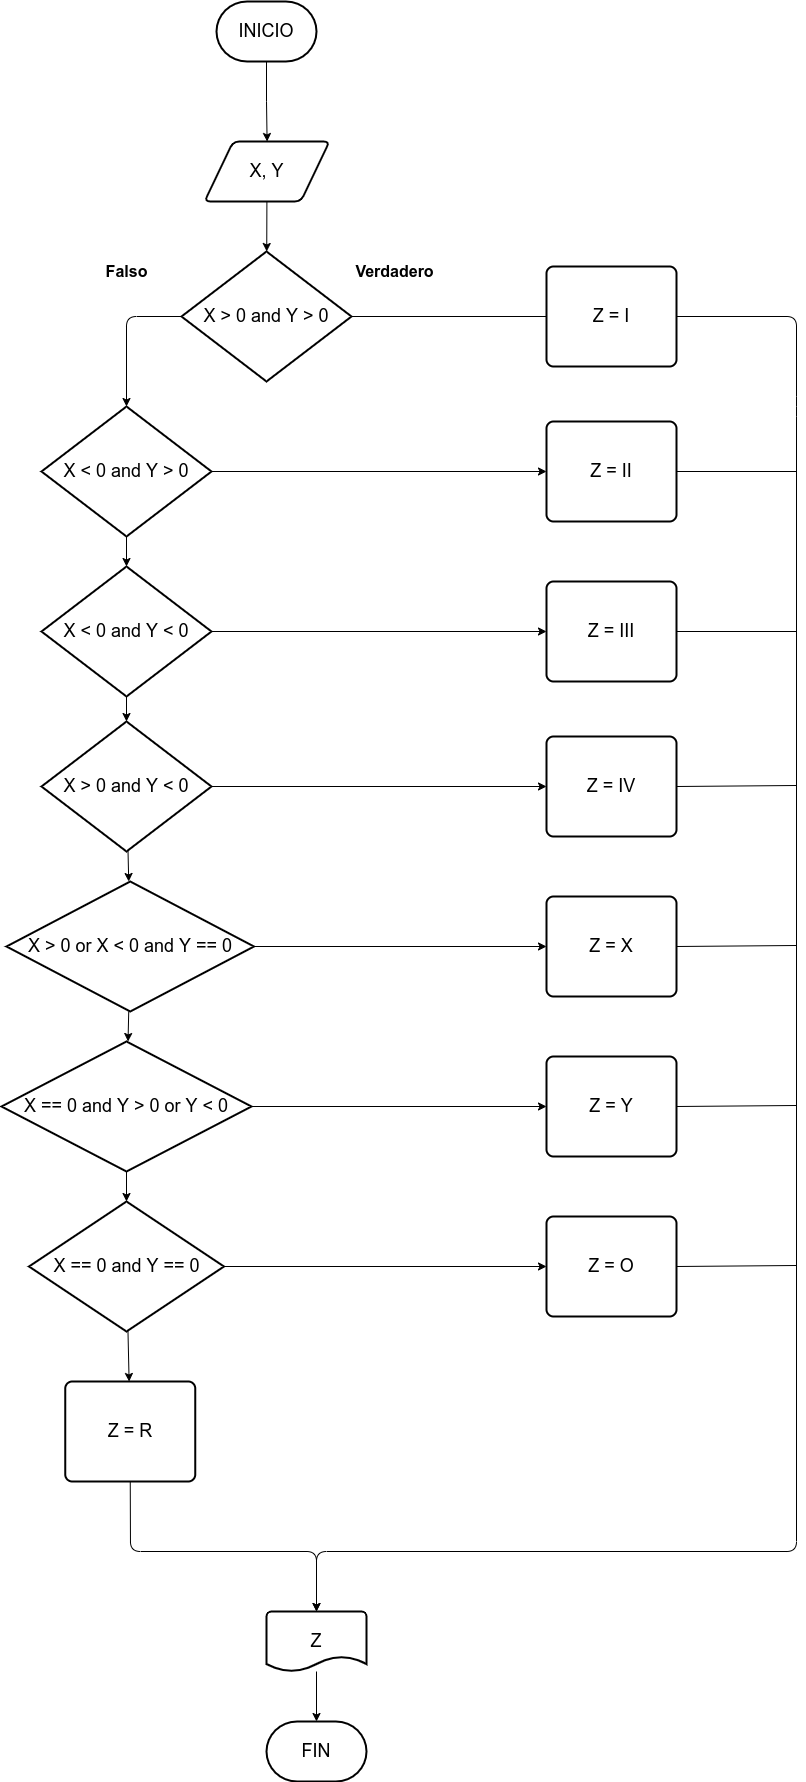
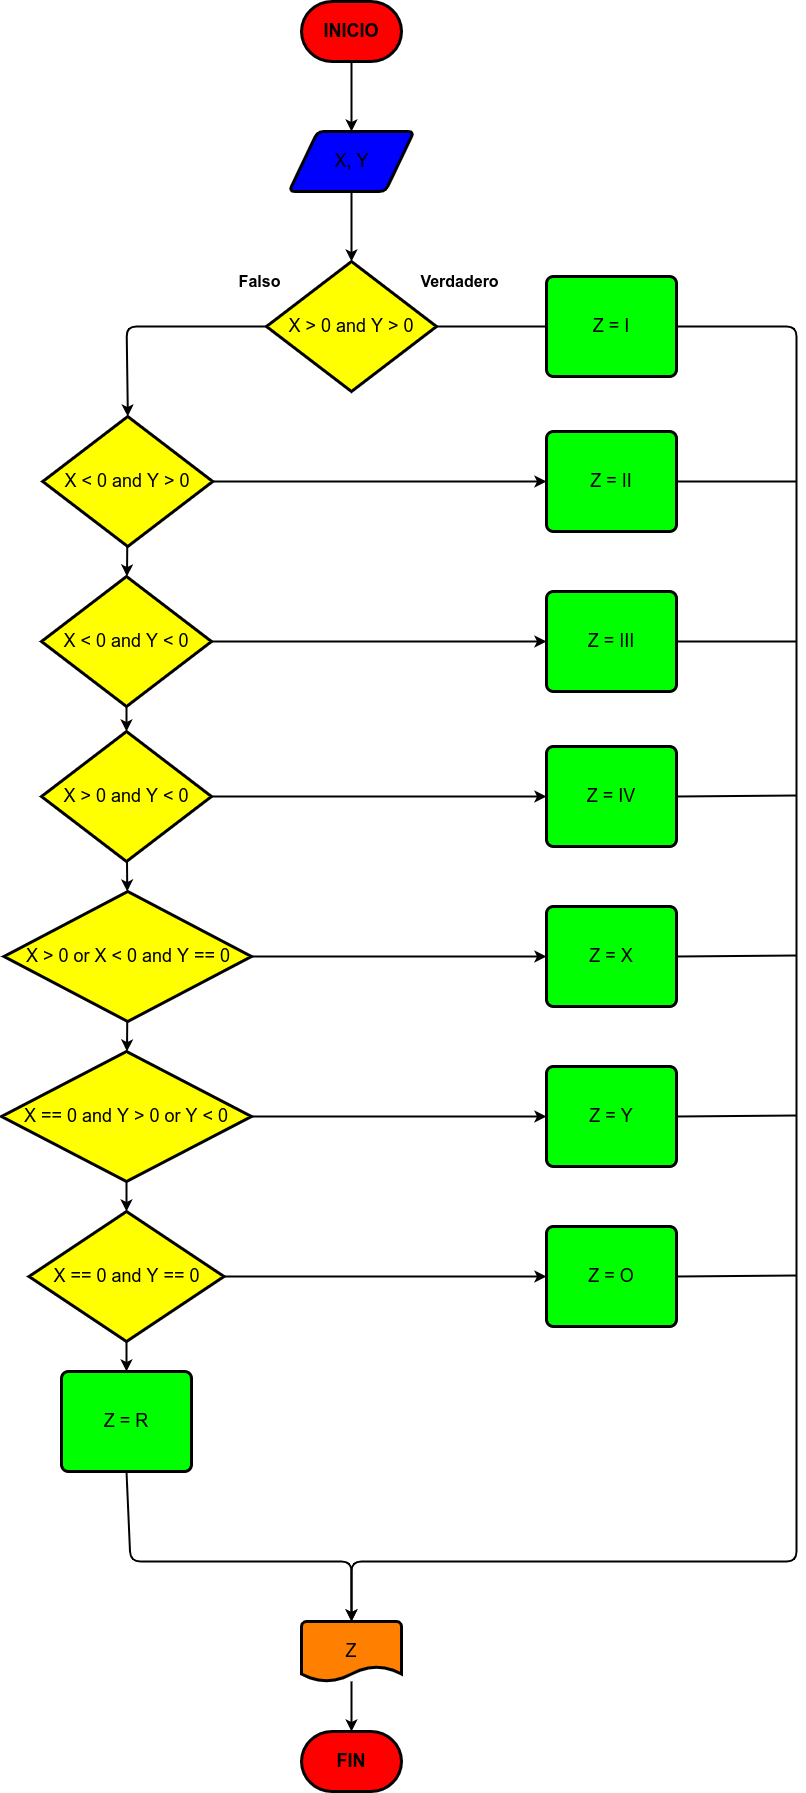
Añadiendo diagramas actualizados, y removiendo comentarios innecesarios

diff --git a/cociente-residuo/cociente-residuo.py b/cociente-residuo/cociente-residuo.py
@@ -1,15 +1,9 @@
 #!/usr/bin/env python3
-# Ejercicio 2. Crear un programa para obtener la división normal, el módulo, y la división entera de un número.
+# Ejercicio 2. Crear un programa para obtener la división normal, el módulo, y la división entera de un número
 
-# Define la variable "x" como un entero (int) y crea una input para preguntar por el valor deseado de este número. (INPUT-STORAGE)
 x = int(input("Introduzca el dividendo: "))
-# Define la variable "y" como un entero (int) y crea una input para preguntar por el valor deseado de este número. (INPUT-STORAGE)
 y = int(input("Introduzca el divisor: "))
-# Define la variable "z1" y le asigna el valor de la operación entre los dos números. (PROCESSING-STORAGE)
 z1 = (x / y)
-# Define la variable "z2" y le asigna el valor de la operación entre los dos números. (PROCESSING-STORAGE)
 z2 = (x % y)
-# Define la variable "z3" y le asigna el valor de la operación entre los dos números. (PROCESSING-STORAGE)
 z3 = (x // y)
-# Lee el valor de la variable "z1", "z2", y "z3" y lo imprime en pantalla. (OUTPUT)
 print("La división es: " + str(z1) + "\n El módulo es: " + str(z2) + "\n La división como entero es: " + str(z3))

diff --git a/suma-enteros/suma-enteros.py b/suma-enteros/suma-enteros.py
@@ -1,11 +1,7 @@
 #!/usr/bin/env python3
-# Ejercicio 1. Crear un programa para sumar dos números enteros.
+# Ejercicio 1. Crear un programa para sumar dos números enteros
 
-# Define la variable "x" como un entero (int) y crea una input para preguntar por el valor deseado de este número. (INPUT-STORAGE)
 x = int(input("Ingrese el primer numero: "))
-# Define la variable "y" como un entero (int) y crea una input para preguntar por el valor deseado de este número. (INPUT-STORAGE)
 y = int(input("Ingrese el segundo numero: "))
-# Define la variable "z" y asigna el valor de la operación entre los dos números. (PROCESSING-STORAGE)
 z = (x + y)
-# Lee el valor de la variable "x", "y", y "z", y lo imprime en pantalla. (OUTPUT)
 print("La suma de "+ str(x) + " y " + str(y) + " es: " + str(z))

diff --git a/potencias/potencias.py b/potencias/potencias.py
@@ -1,11 +1,7 @@
 #!/usr/bin/env python3
 # Ejercicio 3. Crear un programa para hallar la potencia de dos números
 
-# Define la variable "x" como un entero (int) y crea una input para preguntar por el valor deseado de este número. (INPUT-STORAGE)
 x = int(input("Ingrese el primer numero: "))
-# Define la variable "y" como un entero (int) y crea una input para preguntar por el valor deseado de este número. (INPUT-STORAGE)
 y = int(input("Ingrese el segundo numero: "))
-# Define la variable "z" y asigna el valor de la operación entre los dos números. (PROCESSING-STORAGE)
 z = (x ** y)
-# Lee el valor de la variable "x", "y", y "z", y lo imprime en pantalla. (OUTPUT)
 print("La potencia de "+ str(x) + " y " + str(y) + " es: " + str(z))

diff --git a/numeros-diferentes/numeros-diferentes.py b/numeros-diferentes/numeros-diferentes.py
@@ -5,6 +5,6 @@ x = int(input("Ingrese el número x: "))
 y = int(input("Ingrese el número y: "))
 
 if x == y:
-    print("Los números" + x + " y " + y + "son iguales")
+    print("Los números " + str(x) + " y " + str(y) + " son iguales")
 elif x != y:
-    print("Los números" + x + " y " + y + "no son iguales")
+    print("Los números " + str(x) + " y " + str(y) + " no son iguales")
